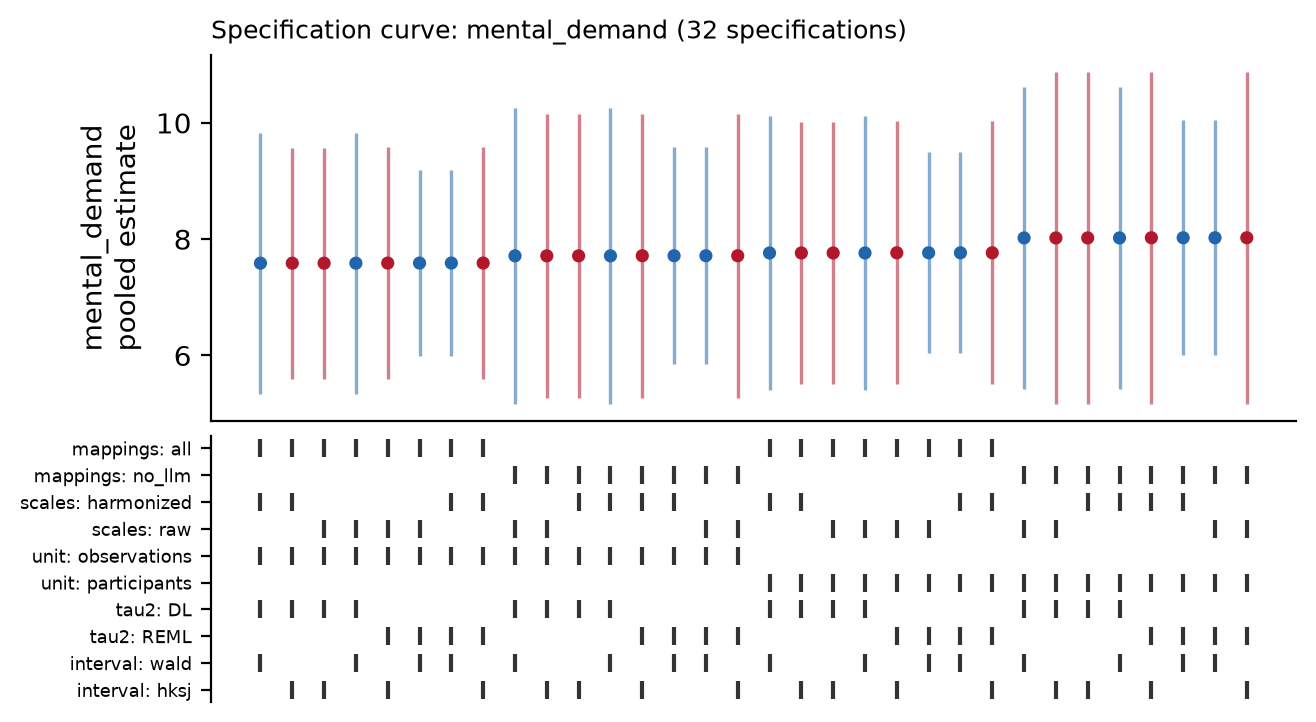
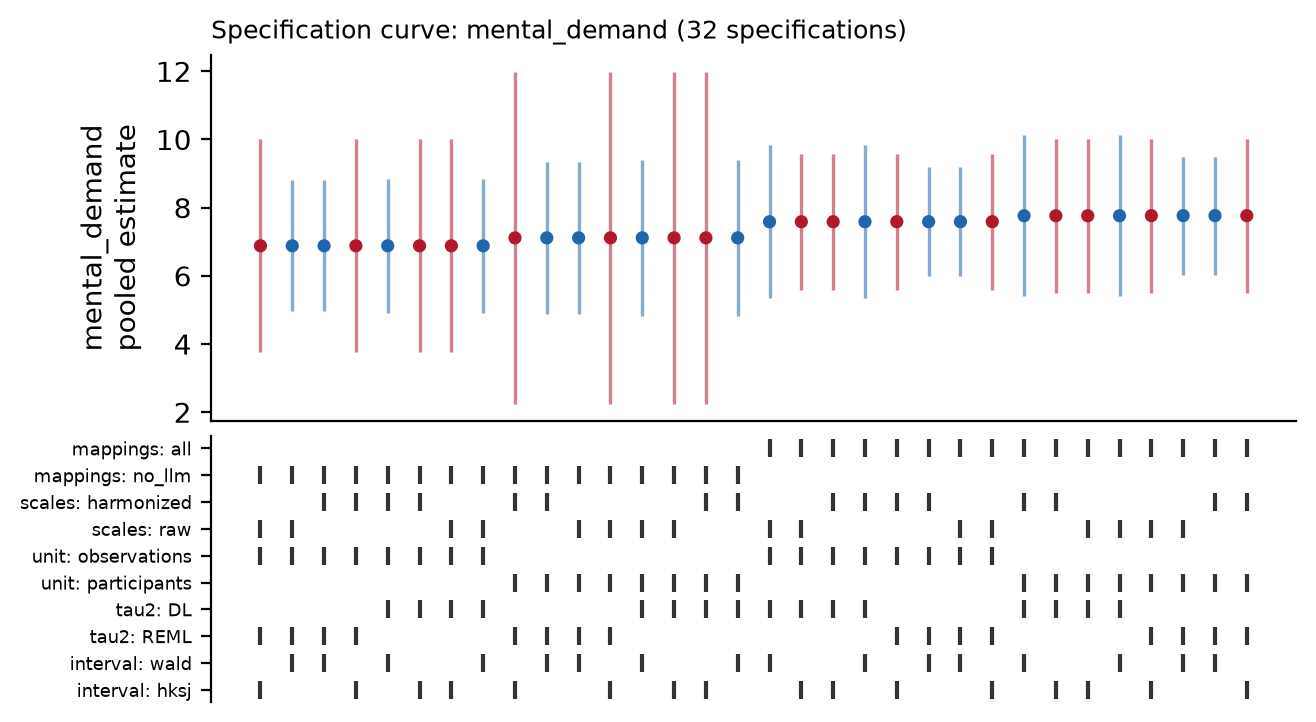
Keep composite items' own provenance in meta_view
When several raw columns map to one DV, they are composed into a per-row
mean and renamed <dv>__item_N. meta_view recorded only the composite, with
the provenance and values of its first column, so an LLM-mapped column
composed with a schema-mapped one counted as schema: it entered the
LLM-excluded analyses, and 69 of the 132 LLM mappings never reached the
review queue (whose statistics showed the composite's values).

Each item now has its own meta_view row (item_of; the composite's row
lists composite_items). load_mapping_provenance already takes the most
cautious category over a DV's rows, so a composite with an LLM-mapped item
is llm_deduced. The review queue skips composite rows and lists every LLM
mapping with its raw column's values; the LLM benchmark ignores item rows,
so its gold items are unchanged.

Regenerated outputs: two composites change category (mental_demand of the
3D-display study and of FACT-AV). LLM-excluded mental demand: k = 4, 6.88
(HKSJ 3.76-10.00), was k = 6, 7.71; all mappings unchanged (7.59, k = 7);
multiverse range 6.88-7.77 (was 7.59-8.02). Standardized tables, LLM
decisions, gold items and contrast meta-analyses are unchanged.

diff --git a/opendv/run_batch_standardization.py b/opendv/run_batch_standardization.py
@@ -1182,6 +1182,33 @@ def _merge_with_standard_precedence(
     return merged
 
 
+def _composite_item_aliases(
+    composite_records: list[dict[str, Any]],
+    original_lookup: dict[str, list],
+) -> tuple[dict[str, str], dict[str, list[str]]]:
+    """Raw column of every ``<canonical>__item_N`` column, and the items of each composite.
+
+    Declared scales record their items by raw column name. The reliability
+    heuristic records the ``<canonical>`` / ``<canonical>__dup_K`` columns that
+    ``standardize_columns`` gave to the K-th raw column mapped to the canonical.
+    """
+    item_alias: dict[str, str] = {}
+    members: dict[str, list[str]] = {}
+    for record in composite_records:
+        canonical = str(record.get("canonical"))
+        originals = original_lookup.get(canonical, [])
+        declared = record.get("decision") == "composed_declared_scale"
+        for item_column, item in zip(record.get("renamed_items") or [], record.get("items") or [], strict=False):
+            item = str(item)
+            match = re.fullmatch(rf"{re.escape(canonical)}__dup_(\d+)", item)
+            position = 0 if item == canonical else int(match.group(1)) - 1 if match else -1
+            if not declared and 0 <= position < len(originals):
+                item = str(originals[position])
+            item_alias[str(item_column)] = item
+            members.setdefault(str(record.get("composite_column", canonical)), []).append(item)
+    return item_alias, members
+
+
 def _summarize_dataset(
     source_id: str,
     dataset_id: str,
@@ -1191,6 +1218,7 @@ def _summarize_dataset(
     provenance: dict[str, Any],
     mapping_debug_records: list[dict[str, Any]],
     dataset_type: str,
+    composite_records: list[dict[str, Any]] | None = None,
 ) -> tuple[list[dict[str, Any]], dict[str, Any]]:
     # build_original_column_lookup only reads df.columns — no copy needed.
     original_lookup = build_original_column_lookup(original_df, mapping)
@@ -1202,31 +1230,40 @@ def _summarize_dataset(
         str(row["original_column"]): row
         for row in mapping_debug_records
     }
+    item_alias, composite_members = _composite_item_aliases(composite_records or [], original_lookup)
 
     records: list[dict[str, Any]] = []
     # When ``standardize_columns`` suffixed duplicate canonicals (e.g.
     # ``trust_rating__dup_2``) we still want to record the base canonical so
     # meta-view rows pool as the same construct. We walk the columns by
     # position because pandas indexing on a duplicate name returns a frame.
-    # ``__item_N`` columns are sub-items of a composite that already lives in
-    # the DataFrame under the bare canonical — skip them so meta-view treats
-    # the construct as one observation per row, not (k items × N rows).
+    # ``__item_N`` columns are the items of a composite that lives in the
+    # DataFrame under the bare canonical. Each gets its own row, marked with
+    # ``item_of``, so its raw column keeps its own mapping provenance and
+    # values: an LLM-mapped item makes the composite LLM-derived for
+    # ``load_mapping_provenance``, and reviewers see what the item holds.
+    # Consumers that count constructs skip rows with ``item_of`` set; the
+    # composite's row lists its items in ``composite_items``.
     position_by_base: dict[str, int] = {}
     for column_position, suffixed_canonical in enumerate(standardized_df.columns):
-        if is_item_suffixed(str(suffixed_canonical)):
-            continue
-        base_canonical = strip_duplicate_suffix(str(suffixed_canonical))
-        idx_in_base = position_by_base.get(base_canonical, 0)
-        position_by_base[base_canonical] = idx_in_base + 1
-
+        column = str(suffixed_canonical)
         series = standardized_df.iloc[:, column_position]
-        aliases = original_lookup.get(base_canonical, [base_canonical])
-        if 0 <= idx_in_base < len(aliases):
-            original_alias = aliases[idx_in_base]
-        elif aliases:
-            original_alias = aliases[-1]
+        item_of = None
+        if is_item_suffixed(column):
+            base_canonical = item_of = strip_item_suffix(column)
+            original_alias = item_alias.get(column, column)
         else:
-            original_alias = base_canonical
+            base_canonical = strip_duplicate_suffix(column)
+            idx_in_base = position_by_base.get(base_canonical, 0)
+            position_by_base[base_canonical] = idx_in_base + 1
+            aliases = original_lookup.get(base_canonical, [base_canonical])
+            if 0 <= idx_in_base < len(aliases):
+                original_alias = aliases[idx_in_base]
+            elif aliases:
+                original_alias = aliases[-1]
+            else:
+                original_alias = base_canonical
+        members = None if item_of else composite_members.get(column)
         mapping_record = debug_lookup.get(str(original_alias), {})
         # Numeric columns are already what ``to_numeric`` would return; only
         # coerce object/string/bool columns (the per-column ``to_numeric``
@@ -1257,6 +1294,8 @@ def _summarize_dataset(
                 "max": float(numeric_series.max()) if n_valid else None,
                 "review_flag": base_canonical in unknown_column_set,
                 "mapping_confidence": "high" if base_canonical not in unknown_column_set else "unknown_alias",
+                "item_of": item_of,
+                "composite_items": "; ".join(members) if members else None,
                 **provenance,
             }
         )
@@ -1798,6 +1837,7 @@ def _process_dataset(
             provenance,
             mapping_debug_records,
             dataset_type,
+            composite_records=composite_records,
         )
         if value_label_report:
             quality["value_labels_applied"] = value_label_report

diff --git a/tests/test_mapping_review.py b/tests/test_mapping_review.py
@@ -152,6 +152,51 @@ def test_reviewed_mappings_drive_the_next_run_and_the_benchmark(tmp_path):
     assert gold.loc["OddColumn", "label_kind"] == "curated_non_dv"
 
 
+
+def test_composite_items_keep_their_own_mapping_and_values(tmp_path):
+    """An LLM-mapped item composed with a schema-mapped one stays visible.
+
+    The composite counts as LLM-derived for the provenance index (so analyses
+    that exclude LLM mappings drop it), and the review queue lists the LLM
+    item with its own values rather than the composite's.
+    """
+    from analyses.evaluate_llm_mapping import gold_items
+    from analyses.multi_study_analysis import load_mapping_provenance
+    from opendv.convert_dv import standardize_columns
+    from opendv.item_composition import compose_item_groups
+    from scripts.run_batch_standardization import _summarize_dataset
+
+    original = pd.DataFrame({"TLX1": [1, 2, 3, 4, 5, 6, 7, 8], "Recognized": [2, 2, 3, 5, 5, 6, 8, 8],
+                             "Seen": [1, 3, 3, 4, 6, 6, 7, 9]})
+    mapping = dict.fromkeys(original.columns, "mental_demand")
+    standardized, records = compose_item_groups(standardize_columns(original.copy(), mapping), "questionnaire")
+    assert records[0]["decision"] == "composed"
+    debug = [{"original_column": "TLX1", "mapping_method": "mapping",
+              "mapping_source": "schemas/standard_dv_mapping.yaml"}] + [
+        {"original_column": c, "mapping_method": "llm", "mapping_source": "llm_deduction"}
+        for c in ("Recognized", "Seen")]
+    rows, _ = _summarize_dataset("s", "d.csv", original, standardized, mapping, {"source_mapping": None}, debug,
+                                 "questionnaire", composite_records=records)
+    meta = pd.DataFrame(rows)
+    composite = meta[meta["item_of"].isna()].iloc[0]
+    items = meta[meta["item_of"].notna()].set_index("original_alias")
+    assert composite["composite_items"] == "TLX1; Recognized; Seen"
+    assert composite["mapping_method"] == "mapping"  # the composite row still describes its first item
+    assert list(items.index) == ["TLX1", "Recognized", "Seen"]
+    assert items.loc["Seen", "mean"] == pytest.approx(original["Seen"].mean())
+    assert items.loc["Recognized", "mapping_method"] == "llm"
+
+    batch = tmp_path / "run"
+    batch.mkdir()
+    meta.to_csv(batch / "meta_view.csv", index=False)
+    assert load_mapping_provenance(batch / "meta_view.csv")[("s", "mental_demand")] == "llm_deduced"
+    queue = mr.build_review_queue(batch, SCHEMA).set_index("raw_column")
+    assert set(queue.index) == {"Recognized", "Seen"}
+    assert queue.loc["Seen", "mean"] == pytest.approx(original["Seen"].mean())
+    gold = gold_items(meta, {"mental_demand"}, max_per_source=40, seed=1)
+    assert list(gold["original_alias"]) == ["TLX1"]  # one gold item per composite, as before items had rows
+
+
 UI_SMOKE_SCRIPT = """
 import sys
 from streamlit.testing.v1 import AppTest

diff --git a/opendv/analysis/evaluate_llm_mapping.py b/opendv/analysis/evaluate_llm_mapping.py
@@ -163,6 +163,8 @@ def _source_context(source: dict[str, Any], base_dir: Path) -> str:
 def gold_items(meta_view: pd.DataFrame, dv_ids: set[str], max_per_source: int, seed: int) -> pd.DataFrame:
     """One row per (source, alias) with its gold label (canonical DV or None)."""
     mv = meta_view.copy()
+    if "item_of" in mv:
+        mv = mv[mv["item_of"].isna()]  # items of composites: the benchmark's items predate their rows
     mv["original_alias"] = mv["original_alias"].astype(str)
     positives = mv[(mv["mapping_method"] == "mapping") & mv["canonical_dv"].isin(dv_ids)].assign(
         label_kind="dv", gold=lambda d: d["canonical_dv"]

diff --git a/opendv/mapping_review.py b/opendv/mapping_review.py
@@ -137,6 +137,11 @@ def build_review_queue(batch_dir: Path, schema_path: Path = DEFAULT_DV_SCHEMA) -
     from opendv.dv_retrieval import get_retriever
 
     meta = pd.read_csv(batch_dir / "meta_view.csv", low_memory=False)
+    if "composite_items" in meta:
+        # A composite's items have rows of their own (``item_of``), each with
+        # its raw column's mapping and values; the composite row would repeat
+        # its first item with the composite's values.
+        meta = meta[meta["composite_items"].isna()]
     meta["original_alias"] = meta["original_alias"].astype(str)
     for col in ("min", "max"):
         if col not in meta:

diff --git a/docs/changelog.md b/docs/changelog.md
@@ -6,6 +6,8 @@ This document logs human-readable updates to the repo's functionality, structure
 
 ### [2026-10-26]
 
+- **Composite items keep their own provenance (fix).** When several raw columns map to one DV, the batch runner composes them into a per-row mean and renames them `<dv>__item_N`; `meta_view.csv` recorded only the composite, with the provenance and values of its first column. An LLM-mapped column composed with a schema-mapped one was therefore invisible: the composite counted as `schema` and entered the LLM-excluded analyses, and 69 of the 132 LLM mappings never reached the review queue, whose statistics showed the composite's values. Each item now has its own `meta_view.csv` row (`item_of`; the composite's row lists `composite_items`), the most cautious provenance over all of a DV's rows applies, and the review queue lists all 132 LLM mappings with each raw column's own values. Two composites change category: `mental_demand` of the 3D-display study (`recognize_road_users` and `recognized_vehicle`, LLM-mapped) and of FACT-AV (`Demand`, the SART demand sum, LLM-mapped). Effects: the LLM-excluded mental-demand estimate is k = 4, 6.88 (HKSJ [3.76, 10.00]), was k = 6, 7.71; the estimate with all mappings is unchanged (7.59, k = 7, now with 3 LLM-derived studies); its multiverse range is 6.88–7.77 (was 7.59–8.02). Standardized tables, LLM decisions and the LLM benchmark's gold items are unchanged; the cross-study contrast meta-analyses are unchanged.
+
 - **Running into Traffic: NASA-TLX performance reverse-keyed.** The study's `tlx.success` item runs from failure to success (mean 17.7 of 21; the other five subscales average 3.2-4.9; r = -0.19 to -0.55 with them, +0.42 with perceived safety), the reverse of the TLX performance scale, and loaded -0.54 in the invariance CFA. It is now reverse-scored (21 - x) through the study's `reverse_items`. Of 1,764 standardized tables only that study's questionnaire changes, in that one column; LLM decisions are identical. Effects: its performance loading becomes +0.54 (configural fit unchanged, so TLX still fails configural invariance); the pooled performance estimate (k = 2) moves from 15.01 to 5.03 and the TLX score from 6.61 to 5.01; the multiverse range of `performance` shrinks from 6.28 to 0.06, so the most "fragile" DV was a polarity error; four reverse-coding warnings on this item disappear; the study's eHMI and speed contrasts on performance change sign and on the TLX score grow (LightRing vs. none -0.55 -> -0.84 SD). Cross-study contrast meta-analyses are unchanged.
 
 ### [2026-10-25]

diff --git a/analyses/figures_chi/README.md b/analyses/figures_chi/README.md
@@ -28,9 +28,9 @@ captions is computed from the run artifacts.
 | DVs pooled across ≥ 3 studies: all / without LLM-deduced rows | 12 / 6 | `meta_analysis_summary*.csv` |
 | **Mean pairwise DV overlap** | **Jaccard = 0.098** | `dv_overlap_details.csv` |
 | Most similar pair | eHMI-for-All ↔ ROADS (0.52) | `dv_overlap_details.csv` |
-| NASA-TLX Mental Demand, all mappings (k = 7; one study's rows LLM-mapped) | 7.59; Wald [5.34, 9.83]; HKSJ [5.60, 9.58]; I² = 99.7%, τ² = 9.12 | `meta_analysis_summary.csv` |
-| NASA-TLX Mental Demand, without LLM-deduced rows (k = 6) | 7.71; Wald [5.17, 10.26]; HKSJ [5.27, 10.16]; I² = 99.8% | `meta_analysis_summary_llm_excluded.csv` |
-| Multiverse range of the Mental Demand estimate (32 specifications) | 7.59–8.02 | `output_multiverse/multiverse_summary.csv` |
+| NASA-TLX Mental Demand, all mappings (k = 7; in 3 studies LLM-mapped columns enter the composite) | 7.59; Wald [5.34, 9.83]; HKSJ [5.60, 9.58]; I² = 99.7%, τ² = 9.12 | `meta_analysis_summary.csv` |
+| NASA-TLX Mental Demand, without LLM-deduced rows (k = 4) | 6.88; Wald [4.91, 8.85]; HKSJ [3.76, 10.00]; I² = 99.2% | `meta_analysis_summary_llm_excluded.csv` |
+| Multiverse range of the Mental Demand estimate (32 specifications) | 6.88–7.77 | `output_multiverse/multiverse_summary.csv` |
 | Condition contrast: eHMI vs. none on Mental Demand (2 studies) | −0.51 SD; Wald [−0.70, −0.32]; HKSJ [−2.32, 1.31] | `contrast_meta_analysis.csv` |
 | Causal DAG (DirectLiNGAM) | fit on 2,600 complete-case rows, **all from FACT-AV** (a within-study DAG) | `analysis_results.json` (`studies_used`) |
 

diff --git a/docs/research_agenda.md b/docs/research_agenda.md
@@ -302,10 +302,11 @@ P1 must confirm it on a held-out split.
 The multiverse crosses five binary choices (32 specifications). Results for
 the 11-study run (`analyses/output_multiverse/`):
 
-- **Robust:** NASA-TLX `mental_demand` (k = 7). All 32 estimates lie in
-  7.59–8.02 and every interval covers the default estimate (run of
-  2026-10-19; 7.37–7.58 in the run of 2026-10-17, before the LLM mapped
-  `tlx1_sq001` of the longitudinal study to it).
+- **Robust:** NASA-TLX `mental_demand` (k = 3–7). All 32 estimates lie in
+  6.88–7.77 and every interval covers the default estimate. The low end
+  drops the three studies whose composites contain LLM-mapped columns; until
+  2026-10-26 only one of them was recognized as such (range 7.59–8.02, see the
+  changelog).
 - **Fragile:**
   - `perceived_safety` (k = 7) moves from −0.24 to 4.27 depending only on
     scale harmonization, and cannot be pooled at all without LLM-deduced rows;

diff --git a/docs/multi_study_analysis_guide.md b/docs/multi_study_analysis_guide.md
@@ -129,6 +129,8 @@ Outputs: `contrast_effects.csv` (every contrast, with means, SDs, the within-per
 | `blocked`       | Never-map blocklist applied                                        |
 | `unknown`       | No provenance available (e.g., ad-hoc input folder)                |
 
+When several raw columns map to one DV and are composed into a per-row mean (`opendv/item_composition.py`), each item keeps a `meta_view.csv` row of its own: `item_of` names the composite and `original_alias`, `mapping_source`, `n`, `mean`, `min` and `max` describe that raw column; the composite's row lists its items in `composite_items`. The most cautious category over all of a DV's rows wins, so a composite with one LLM-mapped item counts as `llm_deduced`. Rows with `item_of` set describe items, not additional observations of the construct.
+
 Use these CLI flags for sensitivity runs:
 
 ```bash
